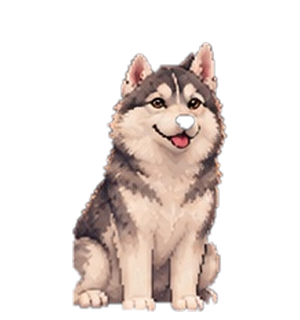
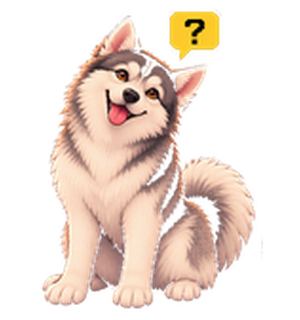
fix lady img

diff --git a/src/components/Header/HeaderLady.tsx b/src/components/Header/HeaderLady.tsx
@@ -101,13 +101,13 @@ export default function HeaderLady({
         className={`lady-bubble ${displayedMood === "question" || displayedMood === "woof" ? "show" : ""}`}
         aria-live="polite"
       >
-        {mood === "woof"
+        {displayedMood === "woof"
           ? "WOOF!"
-          : brandHovered && !ladyHovered
-            ? "HOME"
-            : mood === "question"
-              ? "?"
-              : ""}
+          : displayedMood === "question"
+            ? brandHovered && !ladyHovered
+              ? "HOME"
+              : "?"
+            : ""}
       </span>
 
       {mood === "love" && (

diff --git a/src/app/NotFoundLady.tsx b/src/app/NotFoundLady.tsx
@@ -64,9 +64,11 @@ export default function NotFoundLady() {
       onBlur={() => state === "question" && setState("search")}
       onClick={play}
     >
-      <span className="not-found-lady-v36-bubble" aria-hidden="true">
-        {current.bubble}
-      </span>
+      {state !== "question" && (
+        <span className="not-found-lady-v36-bubble" aria-hidden="true">
+          {current.bubble}
+        </span>
+      )}
       <span className="not-found-lady-v36-stage" aria-hidden="true">
         {Object.entries(ladyState).map(([key, item]) => (
           <Image

diff --git a/src/components/Contact/ContactLady.tsx b/src/components/Contact/ContactLady.tsx
@@ -83,9 +83,11 @@ export default function ContactLady() {
             />
           ))}
         </span>
-        <span className="contact-lady-bubble" aria-live="polite">
-          {labels[mood]}
-        </span>
+        {mood !== "question" && mood !== "love" && (
+          <span className="contact-lady-bubble" aria-live="polite">
+            {labels[mood]}
+          </span>
+        )}
         {mood === "love" && (
           <span
             key={heartsKey}

diff --git a/src/app/master.css b/src/app/master.css
@@ -12131,3 +12131,13 @@ body {
     transform 190ms cubic-bezier(0.22, 0.61, 0.36, 1),
     width 180ms ease !important;
 }
+
+/* Final scroll-hint alignment: the glyph's font metrics sit too low by default. */
+#home .scroll-hint span {
+  display: inline-flex !important;
+  align-items: center !important;
+  justify-content: center !important;
+  line-height: 1 !important;
+  position: relative !important;
+  top: -2px !important;
+}

diff --git a/src/app/AppPreloader.tsx b/src/app/AppPreloader.tsx
@@ -13,6 +13,7 @@ const assets = [
   "/assets/projects/hosts-editor-settings.webp",
   "/assets/characters/lady/accepted/sniff.png",
   "/assets/characters/lady/accepted/question.png",
+  "/assets/characters/lady/accepted/contact-normalized/question.png",
   "/assets/characters/lady/accepted/idle.png",
   "/assets/characters/lady/accepted/toy.png",
   "/assets/characters/lady/accepted/header.png",

diff --git a/src/components/Projects/ProjectsLady.tsx b/src/components/Projects/ProjectsLady.tsx
@@ -74,7 +74,9 @@ export default function ProjectsLady() {
           priority={false}
         />
       </span>
-      <span className="projects-lady-bubble">{label}</span>
+      {mood !== "question" && mood !== "love" && (
+        <span className="projects-lady-bubble">{label}</span>
+      )}
       {mood === "love" && (
         <span
           key={heartsKey}
